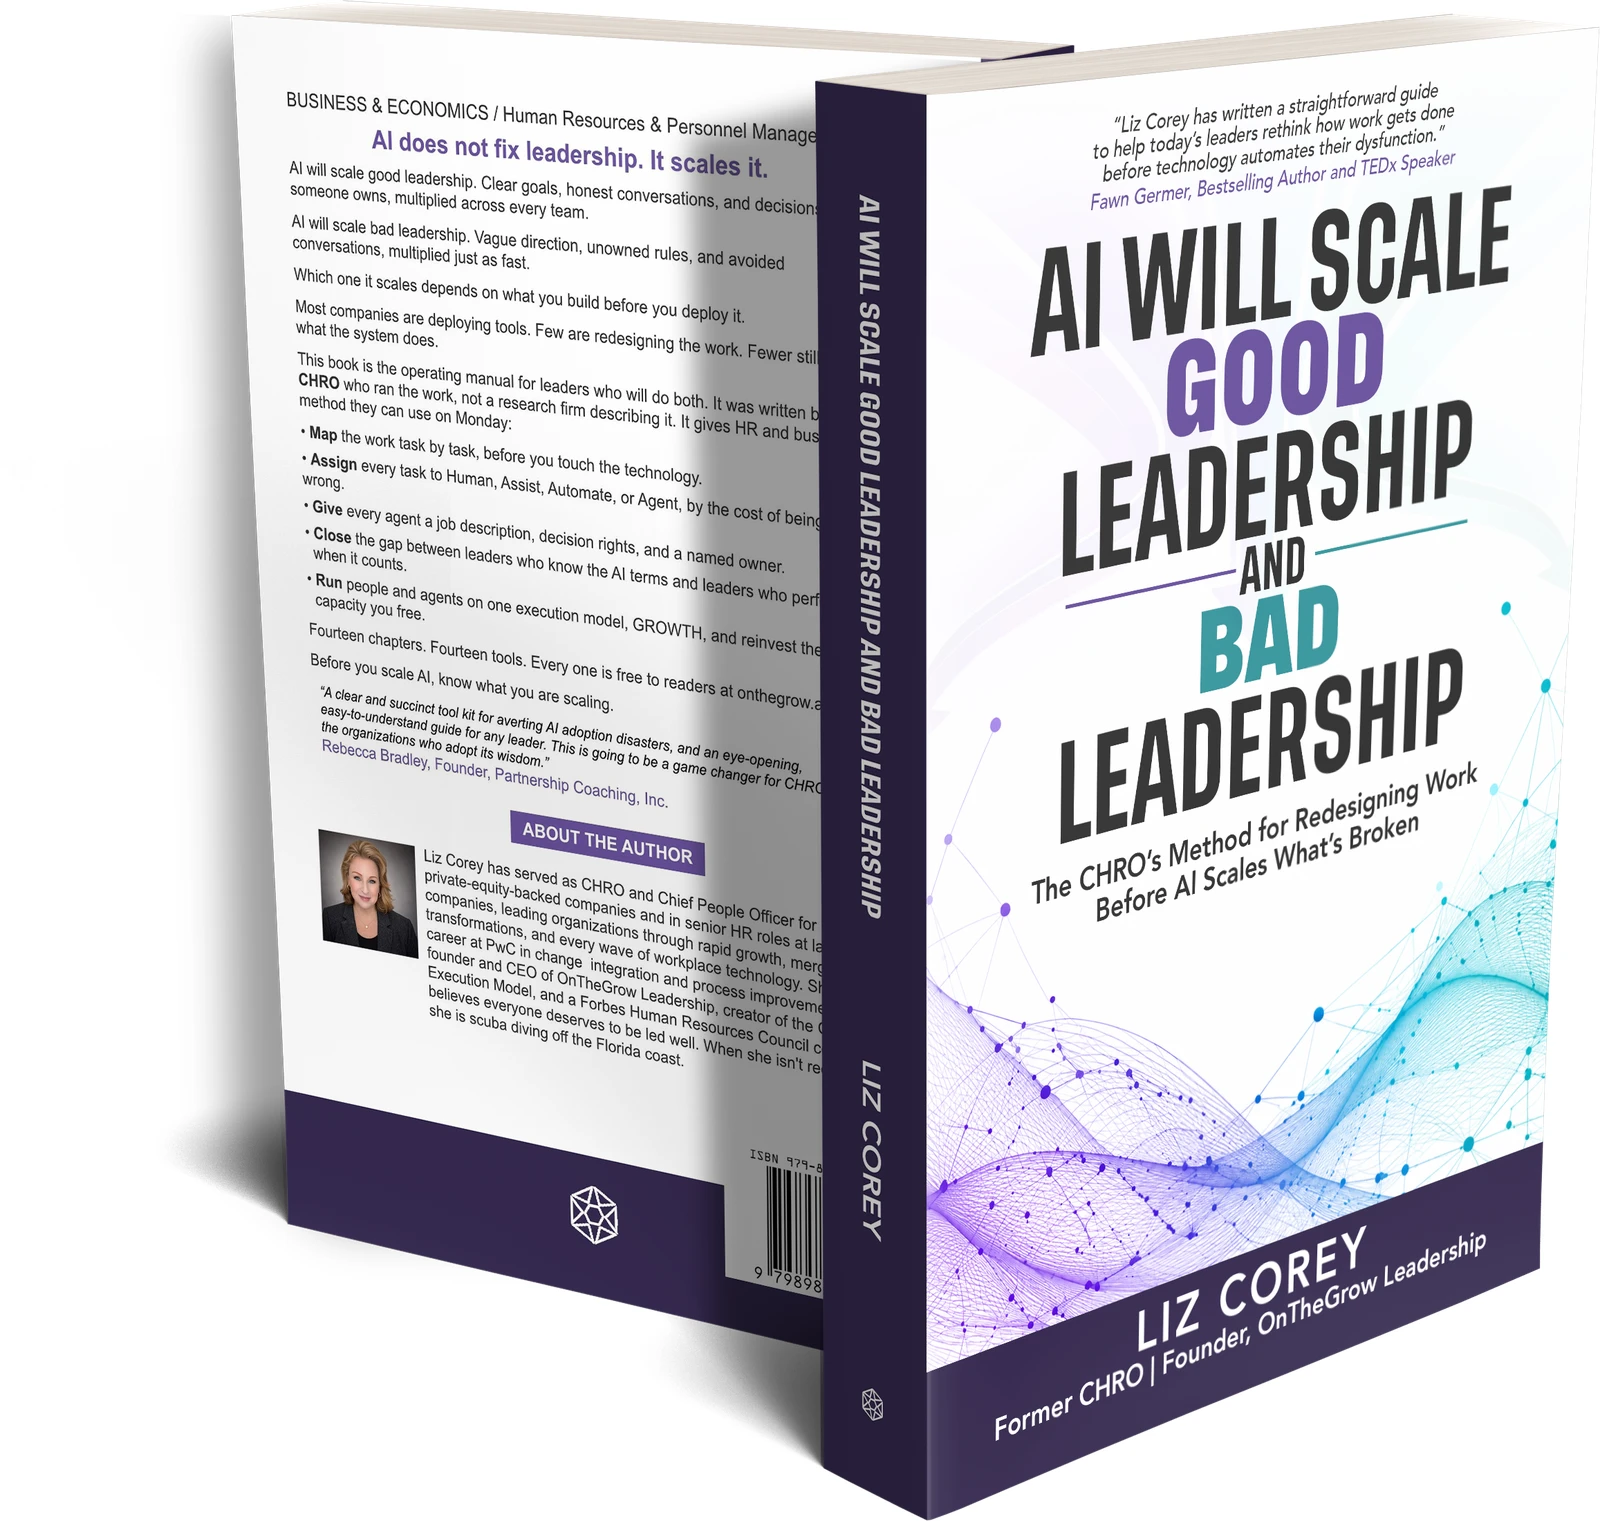
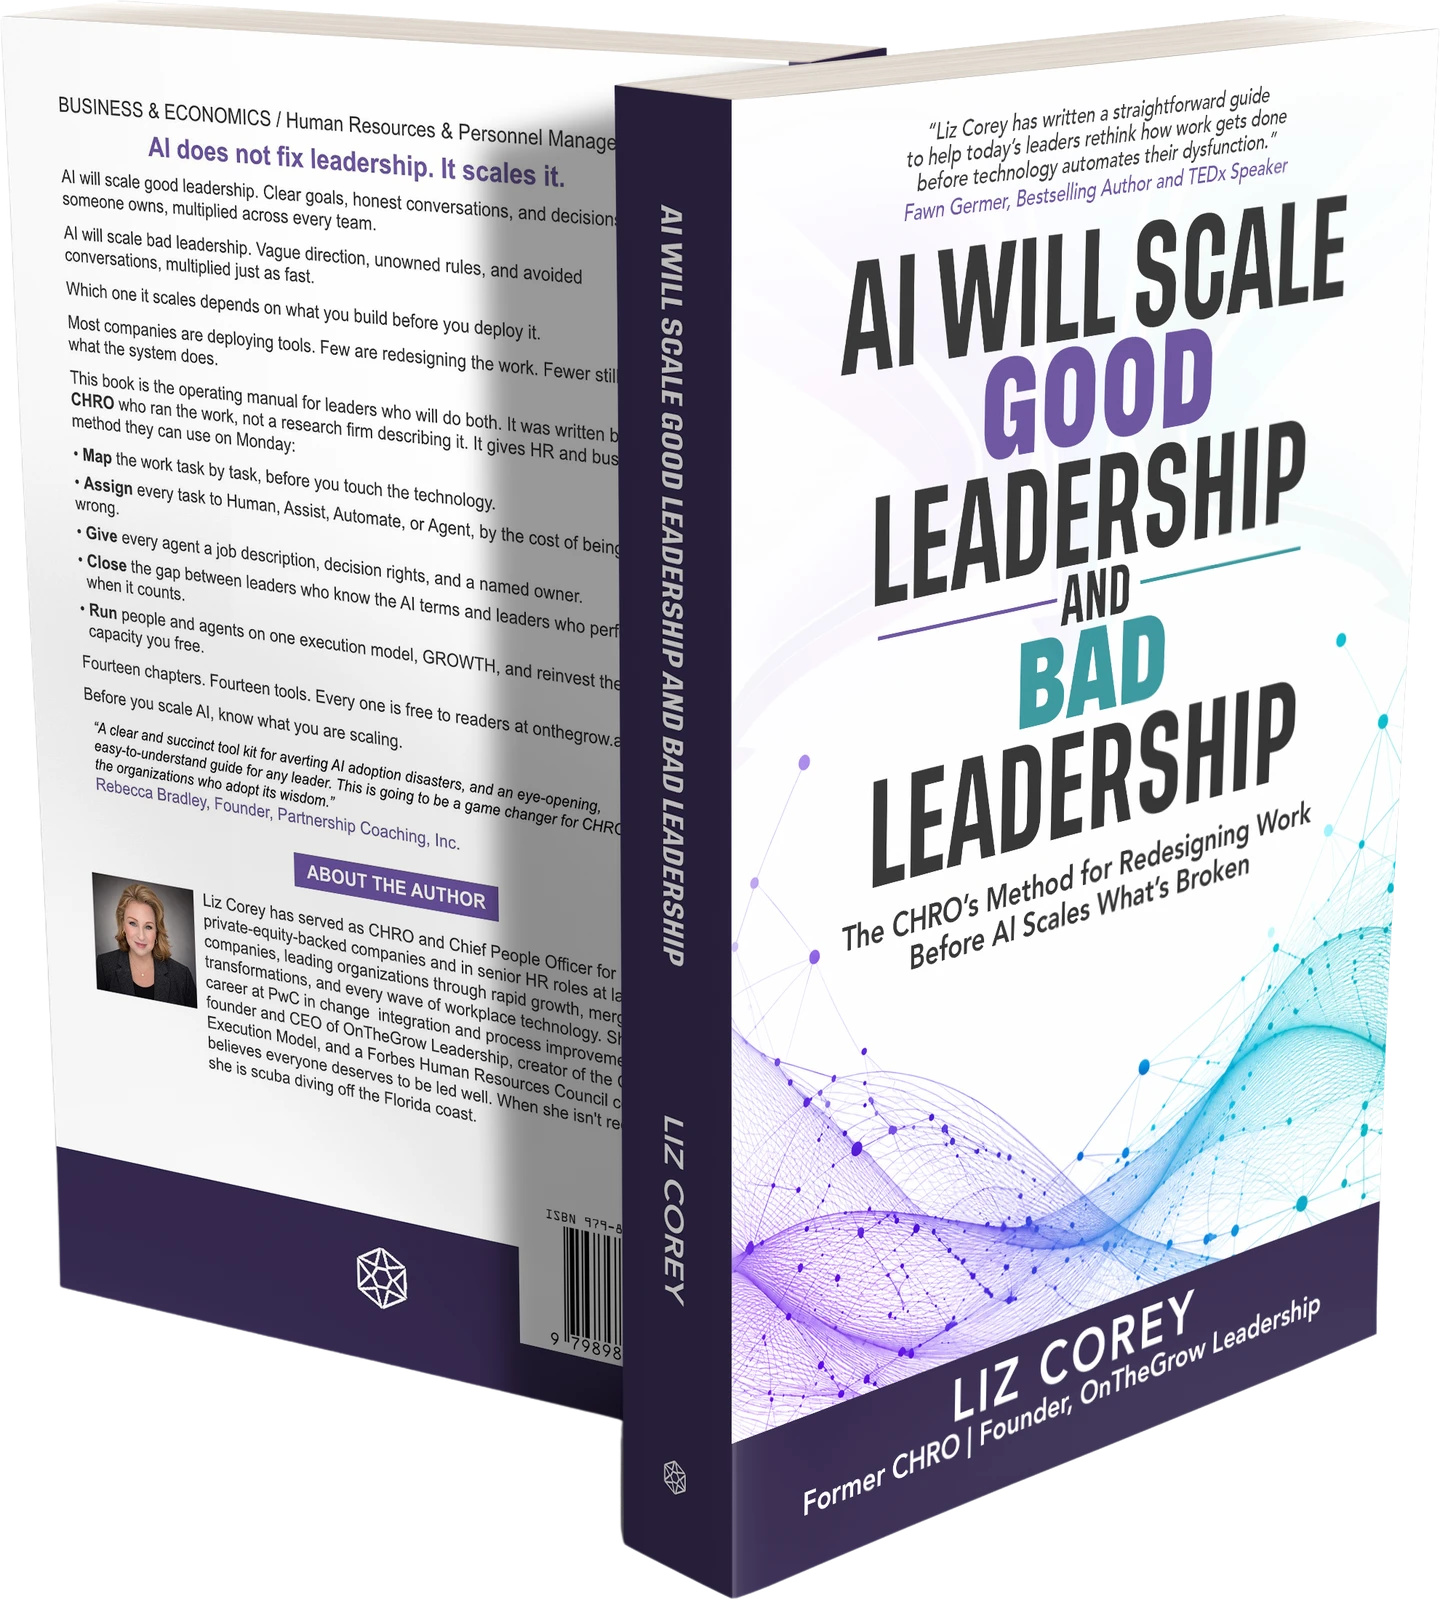
Transparent book mockups for the hero and book section
The hero stack and tablet and the front and back mockup now carry transparent
backgrounds, so the books sit directly on the section color with only the drop shadow.
PNG masters and a transparent book-stack-back are in assets unreferenced. The social
share image keeps its solid background.

diff --git a/index.html b/index.html
@@ -464,7 +464,7 @@
       </div>
       <p class="hero-note">Twelve statements. Three minutes. No email required to see your score.</p>
     </div>
-    <img class="hero-cover" src="assets/book-stack-tablet.webp" width="1600" height="1158" fetchpriority="high"
+    <img class="hero-cover" src="assets/book-stack-tablet.webp" width="1600" height="1155" fetchpriority="high"
          alt="AI Will Scale Good Leadership and Bad Leadership by Liz Corey">
   </div>
 </header>
@@ -602,7 +602,7 @@
 <section class="book" id="book">
   <div class="wrap">
     <div class="bgrid">
-      <img class="cover reveal" src="assets/book-front-back.webp" width="1600" height="1521" loading="lazy"
+      <img class="cover reveal" src="assets/book-front-back.webp" width="1440" height="1600" loading="lazy"
            alt="Front and back cover of AI Will Scale Good Leadership and Bad Leadership">
       <div>
         <span class="eyebrow">The Book</span>
